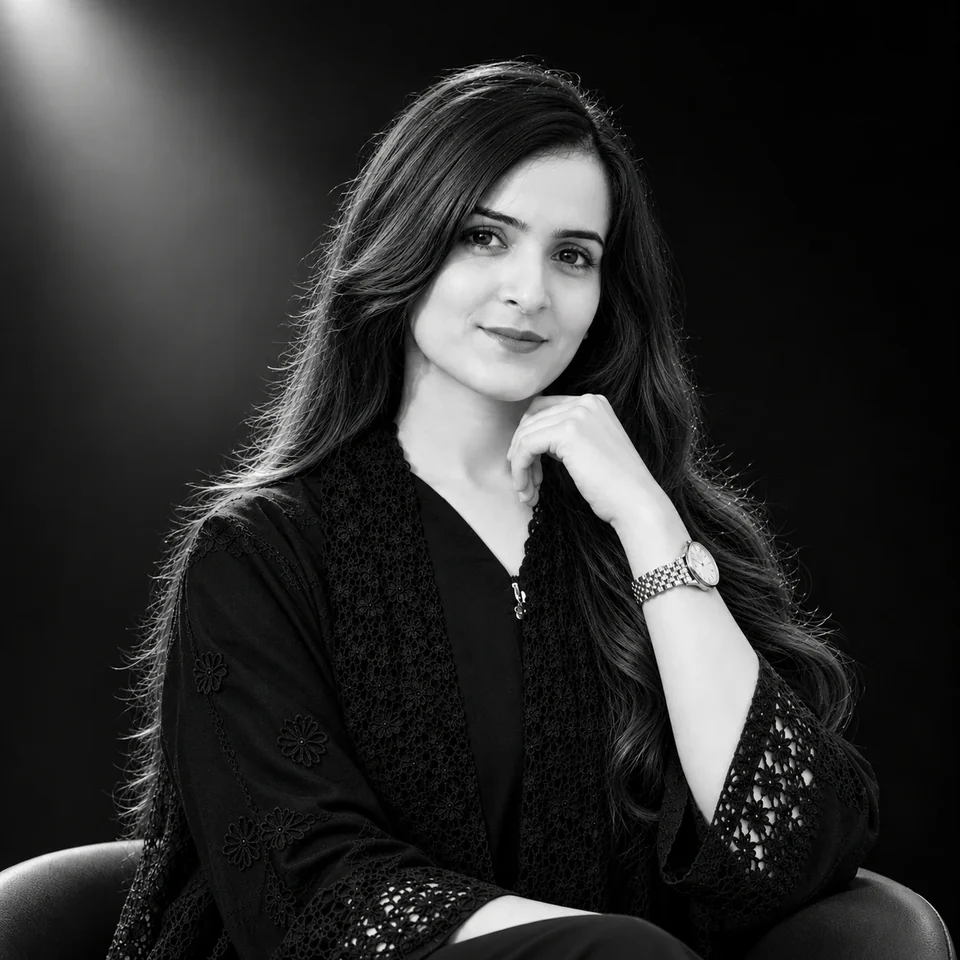
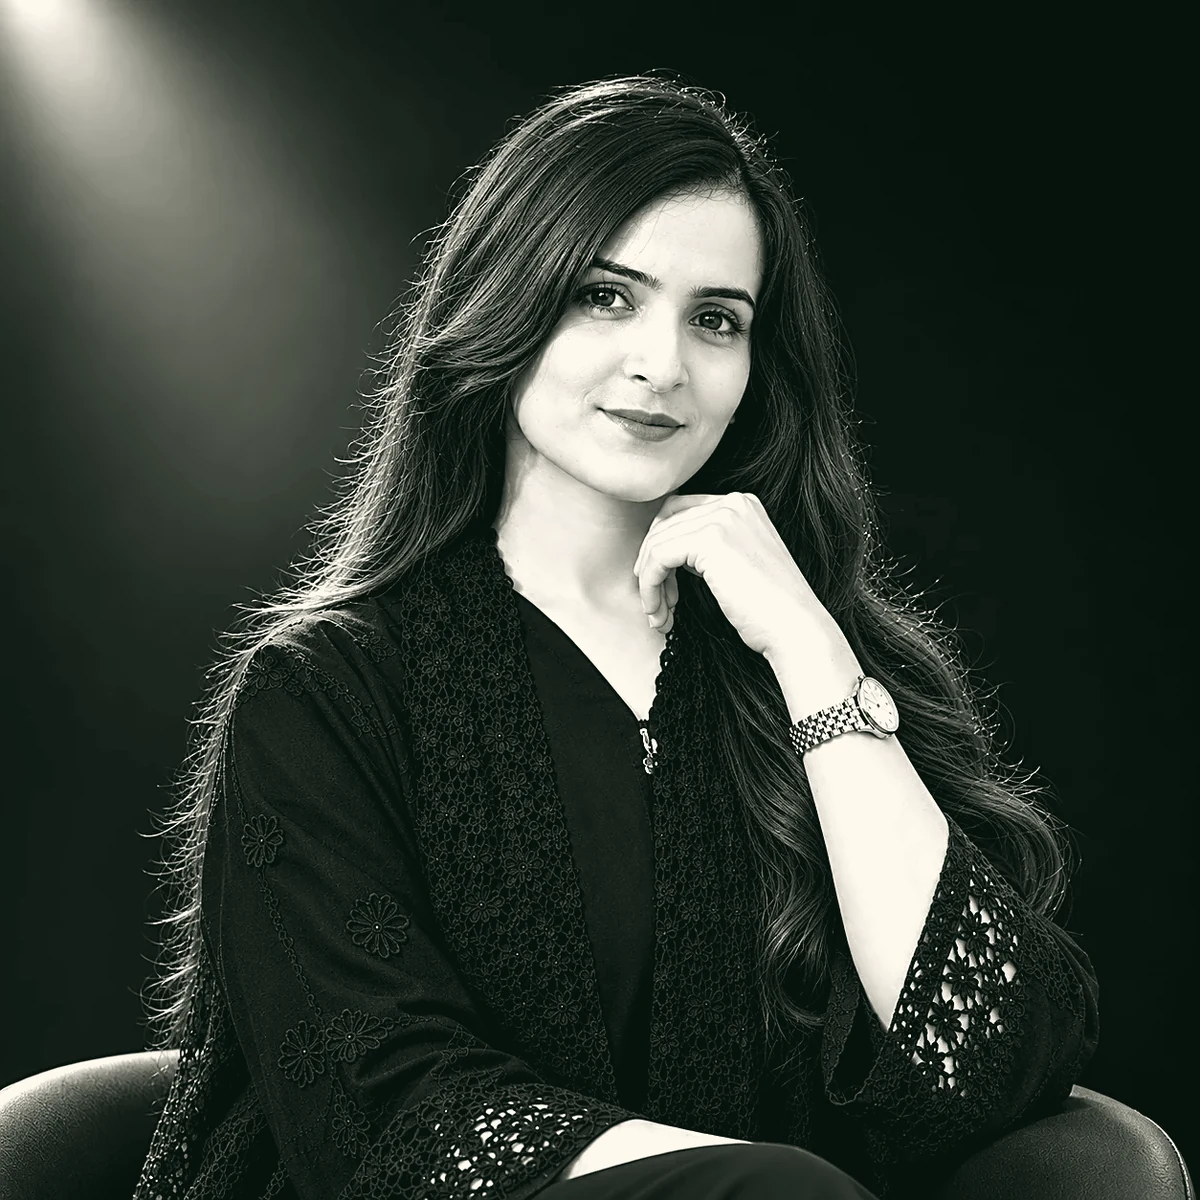
About: founder framing, livelier portrait, fade in/out motion, genres
- Sehrish is presented as founder and operator: eyebrow, intro, a
  founder note, the name tag, page title and quote credit.
- Portrait re-processed: sharper detail and a duotone in the site's
  deep green and cream (1200 px). It zooms in on load with a light sweep,
  then drifts, turns and zooms out as the hero scrolls away, and tilts
  toward the cursor on desktop.
- Animations rebuilt: headings, paragraphs, journey stops, cards,
  ambitions, promises and buttons fade and rise in on arrival and fade
  out on leaving, in both directions. Scroll-driven values now have
  explicit start points so nothing jumps after the intro.
- Genres: two drifting rows of genre chips on the About page, and a
  forest genre strip under the formats strip on the home page.

diff --git a/about.html b/about.html
@@ -3,8 +3,8 @@
 <head>
 <meta charset="utf-8">
 <meta name="viewport" content="width=device-width, initial-scale=1, viewport-fit=cover">
-<title>About Sehrish K | Kodsinc Studio</title>
-<meta name="description" content="Meet Sehrish K of Kodsinc Studio. Editing, covers, formatting, publishing and author websites for indie, self-published and first-time authors.">
+<title>About Sehrish K, Founder | Kodsinc Studio</title>
+<meta name="description" content="Meet Sehrish K, founder of Kodsinc Studio. Editing, covers, formatting, publishing and author websites for indie, self-published and first-time authors.">
 <link rel="icon" href="favicon.ico" sizes="any">
 <link rel="icon" type="image/png" sizes="32x32" href="favicon-32.png">
 <link rel="apple-touch-icon" href="apple-touch-icon.png">
@@ -101,7 +101,14 @@ main{overflow-x:clip}
 .ab-photo .bg-leaf{position:absolute;inset:-12% -14% -6% -10%;z-index:-1}
 .ab-photo .bg-leaf svg{width:100%;height:100%;animation:sway 9s ease-in-out infinite;transform-origin:20% 90%}
 @keyframes sway{0%,100%{transform:rotate(-2deg)}50%{transform:rotate(2deg)}}
-.frame{position:relative;border:2px solid var(--forest);border-radius:22px;overflow:hidden;background:#0b0b0b;box-shadow:12px 12px 0 var(--forest)}
+.ab-photo{perspective:1200px}
+.tilt{transform-style:preserve-3d;will-change:transform}
+.frame{position:relative;border:2px solid var(--forest);border-radius:22px;overflow:hidden;background:#06120c;box-shadow:12px 12px 0 var(--forest);will-change:transform}
+.frame img{will-change:transform}
+/* A soft band of light that sweeps across the portrait once it is revealed */
+.shine{position:absolute;inset:-20% -60%;background:linear-gradient(105deg,transparent 42%,rgba(255,249,238,.16) 50%,transparent 58%);transform:translateX(-70%);pointer-events:none}
+.founder-note{display:grid;gap:2px;max-width:52ch;padding:12px 16px;border-left:4px solid var(--leaf);background:var(--paper);border-radius:0 10px 10px 0;font-size:15.5px;color:var(--muted)}
+.founder-note b{font:700 12px var(--mono);letter-spacing:.12em;text-transform:uppercase;color:var(--moss)}
 .frame img{width:100%;height:auto;aspect-ratio:1}
 .ab-photo figcaption{position:absolute;left:-18px;bottom:28px;display:grid;gap:2px;background:var(--paper);border:2px solid var(--forest);border-radius:12px;
   padding:12px 16px;box-shadow:5px 5px 0 var(--forest)}
@@ -147,6 +154,19 @@ main{overflow-x:clip}
 .who span{font-size:14.5px;line-height:1.5;opacity:.9;margin-top:auto}
 @media (max-width:1050px){.who{grid-template-columns:repeat(3,minmax(0,1fr))}}
 @media (max-width:640px){.who{grid-template-columns:repeat(2,minmax(0,1fr));gap:14px}.who li{min-height:200px;padding:16px 14px}.who b{font-size:18px}}
+
+/* Genres: two rows drifting in opposite directions */
+.genres{margin-top:56px;display:grid;gap:14px}
+.g-title{font:700 15px var(--display);color:var(--forest)}
+.g-row{overflow:hidden;-webkit-mask:linear-gradient(90deg,transparent,#000 6%,#000 94%,transparent);mask:linear-gradient(90deg,transparent,#000 6%,#000 94%,transparent)}
+.g-track{display:flex;width:max-content}
+.g-track ul{list-style:none;margin:0;padding:0 6px 0 0;display:flex;gap:10px}
+.g-track li{display:inline-flex;align-items:center;gap:8px;white-space:nowrap;padding:9px 16px;border-radius:999px;border:2px solid var(--forest);
+  background:var(--cream);font:600 15px var(--display);color:var(--forest)}
+.g-track li::before{content:"";width:10px;height:10px;border-radius:0 70% 0 70%;background:var(--leaf)}
+.g-track li:nth-child(3n+2){background:var(--leaf-pale)}
+.g-track li:nth-child(3n){background:var(--forest);color:var(--cream)}
+.g-track li:nth-child(3n)::before{background:var(--gold-2)}
 
 /* ---------- Vision ---------- */
 .ab-vision{background:var(--forest);color:var(--cream);overflow:hidden}
@@ -247,9 +267,10 @@ main{overflow-x:clip}
 <!-- HERO -->
 <section class="wrap ab-hero" aria-labelledby="abTitle">
   <div class="ab-copy">
-    <p class="eyebrow">About Kodsinc Studio</p>
+    <p class="eyebrow">Meet the founder</p>
     <h1 id="abTitle" aria-label="Hey, I'm Sehrish."><span class="line" aria-hidden="true"><span>Hey, I'm</span></span><span class="line accent" aria-hidden="true"><span>Sehrish.</span></span></h1>
-    <p class="lede">I help indie authors, self-published writers and first-time authors turn their manuscripts into books they're genuinely proud to share with the world.</p>
+    <p class="lede">I'm the founder of Kodsinc Studio and the person running it behind the scenes. I help indie authors, self-published writers and first-time authors turn their manuscripts into books they're genuinely proud to share with the world.</p>
+    <p class="founder-note"><b>Founder &amp; operator</b> I run the studio day to day and stay close to every project, from the first read of your manuscript to launch day.</p>
     <div class="actions">
       <a class="btn btn-sprout" href="index.html#brief">
         <svg class="sprout" viewBox="0 0 30 30" aria-hidden="true"><path d="M4 28C4 14 12 4 28 2c0 16-10 26-24 26z" fill="#7aad26" stroke="#073b22" stroke-width="2"/><path d="M5 27C11 19 17 12 24 7" stroke="#073b22" stroke-width="2" fill="none"/></svg>
@@ -260,8 +281,8 @@ main{overflow-x:clip}
   </div>
   <figure class="ab-photo">
     <div class="bg-leaf" aria-hidden="true"><svg viewBox="0 0 400 400"><path d="M30 370C30 170 170 30 370 30c0 200-140 340-340 340z" fill="#e4ecc9"/><path d="M52 348C134 258 222 168 330 72" stroke="#d5e2b3" stroke-width="10" fill="none" stroke-linecap="round"/></svg></div>
-    <div class="frame"><img src="assets/about/sehrish.webp" alt="Portrait of Sehrish K, seated, smiling, in black and white" width="960" height="960"></div>
-    <figcaption><b>Sehrish K</b><span>Kodsinc Studio</span></figcaption>
+    <div class="tilt"><div class="frame"><img src="assets/about/sehrish.webp?v=2" alt="Portrait of Sehrish K, founder of Kodsinc Studio, seated and smiling" width="1200" height="1200"><span class="shine" aria-hidden="true"></span></div></div>
+    <figcaption><b>Sehrish K</b><span>Founder &amp; operator, Kodsinc Studio</span></figcaption>
     <svg class="tag-leaf" viewBox="0 0 24 24" aria-hidden="true"><use href="#i-leaf"/></svg>
   </figure>
 </section>
@@ -300,6 +321,12 @@ main{overflow-x:clip}
       <li><svg viewBox="0 0 24 24" fill="none" stroke="currentColor" stroke-width="2" stroke-linecap="round" aria-hidden="true"><path d="M12 3l9 5-9 5-9-5z"/><path d="M3 13l9 5 9-5"/></svg><b>Indie authors</b><span>Publishing on your own terms, with the polish of a big house.</span></li>
       <li><svg viewBox="0 0 24 24" fill="none" stroke="currentColor" stroke-width="2" stroke-linecap="round" stroke-linejoin="round" aria-hidden="true"><path d="M12 21V11"/><path d="M12 11C12 6 8 3 4 3c0 5 3 8 8 8zM12 13c0-4 3-7 8-7 0 5-3 7-8 7z"/></svg><b>First-time writers</b><span>Your first book, guided step by step.</span></li>
     </ul>
+    <div class="genres">
+      <p class="g-title">And the genres we work across</p>
+      <ul class="sr-only"><li>Children's picture books</li><li>Early readers</li><li>Middle grade</li><li>Young adult</li><li>Fantasy</li><li>Science fiction</li><li>Romance</li><li>Literary fiction</li><li>Historical fiction</li><li>Mystery</li><li>Thriller</li><li>Crime &amp; true crime</li><li>Horror</li><li>Memoir &amp; biography</li><li>Poetry</li><li>Self-help</li><li>Business &amp; leadership</li><li>Faith &amp; inspirational</li><li>Health &amp; wellness</li><li>Cookbooks</li></ul>
+      <div class="g-row" aria-hidden="true"><div class="g-track"><ul><li>Children's picture books</li><li>Early readers</li><li>Middle grade</li><li>Young adult</li><li>Fantasy</li><li>Science fiction</li><li>Romance</li><li>Literary fiction</li><li>Historical fiction</li></ul><ul><li>Children's picture books</li><li>Early readers</li><li>Middle grade</li><li>Young adult</li><li>Fantasy</li><li>Science fiction</li><li>Romance</li><li>Literary fiction</li><li>Historical fiction</li></ul></div></div>
+      <div class="g-row rev" aria-hidden="true"><div class="g-track"><ul><li>Mystery</li><li>Thriller</li><li>Crime &amp; true crime</li><li>Horror</li><li>Memoir &amp; biography</li><li>Poetry</li><li>Self-help</li><li>Business &amp; leadership</li><li>Faith &amp; inspirational</li><li>Health &amp; wellness</li><li>Cookbooks</li></ul><ul><li>Mystery</li><li>Thriller</li><li>Crime &amp; true crime</li><li>Horror</li><li>Memoir &amp; biography</li><li>Poetry</li><li>Self-help</li><li>Business &amp; leadership</li><li>Faith &amp; inspirational</li><li>Health &amp; wellness</li><li>Cookbooks</li></ul></div></div>
+    </div>
   </div>
 </section>
 
@@ -345,7 +372,7 @@ main{overflow-x:clip}
 <section class="ab-quote" aria-label="Our belief">
   <div class="wrap">
     <blockquote id="bigQuote">Your story deserves to be seen, read, and remembered.</blockquote>
-    <cite>Sehrish K, Kodsinc Studio</cite>
+    <cite>Sehrish K, founder of Kodsinc Studio</cite>
   </div>
 </section>
 
@@ -410,18 +437,24 @@ main{overflow-x:clip}
   }
   const INK = '<svg class="ink" viewBox="0 0 100 12" preserveAspectRatio="none" aria-hidden="true"><path pathLength="100" d="M2 8C28 3 62 2 98 7"/></svg>';
 
+  // Reversible reveal: fades and rises in as it arrives, fades out as it leaves (both scroll directions)
+  const fade = (targets, trigger, o = {}) => gsap.fromTo(targets,
+    Object.assign({autoAlpha:0, y:o.y ?? 40}, o.from || {}),
+    Object.assign({autoAlpha:1, y:0, duration:o.d ?? .8, stagger:o.stagger ?? 0, ease:'power3.out',
+      scrollTrigger:{trigger, start:o.start ?? 'top 86%', end:o.end ?? 'bottom 8%', toggleActions:'play reverse play reverse'}}, o.to || {}));
+
   // Headings flip up word by word; one key word gets a gold editor's underline
   $$('[data-split]').forEach(h => {
     const words = h.textContent.trim().split(/\s+/);
     h.setAttribute('aria-label', words.join(' '));
     h.innerHTML = words.map(w => `<span class="w" aria-hidden="true"><span class="wi">${w}</span></span>`).join(' ');
-    const tl = gsap.timeline({scrollTrigger:{trigger:h, start:'top 86%', once:true}})
-      .from($$('.wi', h), {rotationX:-100, y:16, autoAlpha:0, duration:.9, stagger:.05, ease:'back.out(1.5)'});
+    const tl = gsap.timeline({scrollTrigger:{trigger:h, start:'top 86%', end:'bottom 6%', toggleActions:'play reverse play reverse'}})
+      .fromTo($$('.wi', h), {rotationX:-100, y:16, autoAlpha:0}, {rotationX:0, y:0, autoAlpha:1, duration:.8, stagger:.045, ease:'back.out(1.5)'});
     const marked = $$('.w', h).find(w => w.textContent === h.dataset.mark);
-    if (marked) { marked.insertAdjacentHTML('afterbegin', INK); tl.fromTo(marked, {'--ink-off':100}, {'--ink-off':0, duration:.7, ease:'power2.inOut'}, '-=.2'); }
+    if (marked) { marked.insertAdjacentHTML('afterbegin', INK); tl.fromTo(marked, {'--ink-off':100}, {'--ink-off':0, duration:.6, ease:'power2.inOut'}, '-=.25'); }
   });
 
-  // Labels: the leaf sprouts, then the label types itself out
+  // Labels: the leaf sprouts, then the label types itself out (once)
   $$('.eyebrow').forEach(el => {
     const text = el.textContent.trim();
     el.innerHTML = `<span class="sr-only">${text}</span><span aria-hidden="true"></span><span class="caret" aria-hidden="true"></span>`;
@@ -434,59 +467,91 @@ main{overflow-x:clip}
     else ScrollTrigger.create({trigger:el, start:'top 90%', once:true, onEnter:() => tl.play()});
   });
 
-  // Paragraphs that fill in word by word as you read
+  // Paragraphs that fill in word by word as you read, and soften again as they leave the top
   $$('[data-ink]').forEach(el => {
     el.innerHTML = el.textContent.trim().split(/\s+/).map(w => `<span class="inkw">${w}</span>`).join(' ');
     gsap.fromTo($$('.inkw', el), {opacity:.15}, {opacity:1, stagger:.1, ease:'none', scrollTrigger:{trigger:el, start:'top 85%', end:'bottom 55%', scrub:true}});
   });
+  $$('.lede:not([data-ink]), .founder-note').forEach(el => { if (!el.closest('.ab-hero')) fade(el, el, {y:24}); });
 
-  // ---------- Hero: name rises, the portrait is revealed from the bottom, the caption and leaf pop in ----------
+  // ---------- Hero intro ----------
   gsap.timeline({defaults:{ease:'power4.out'}})
     .from('.ab-hero h1 .line>span', {yPercent:110, duration:1.05, stagger:.12})
     .from('.ab-photo .bg-leaf svg', {scale:0, rotation:-30, duration:1.2, ease:'back.out(1.3)'}, .05)
     .fromTo('.frame', {clipPath:'inset(100% 0 0 0 round 22px)'}, {clipPath:'inset(0% 0 0 0 round 22px)', duration:1.2, ease:'power3.inOut'}, .15)
-    .from('.frame img', {scale:1.18, duration:1.6, ease:'power3.out'}, .15)
+    .fromTo('.frame img', {scale:1.25}, {scale:1.08, duration:1.6, ease:'power3.out'}, .15)
+    .to('.shine', {x:'70%', duration:1.4, ease:'power2.inOut'}, 1.1)
     .from('.ab-photo figcaption', {x:-30, autoAlpha:0, duration:.7, ease:'back.out(1.7)'}, .95)
     .from('.tag-leaf', {scale:0, rotation:-90, duration:.8, ease:'back.out(2.2)'}, 1.05)
-    .from('.ab-hero .lede, .ab-hero .actions', {y:24, autoAlpha:0, duration:.8, stagger:.1}, .45);
-  gsap.to('.frame img', {yPercent:-6, ease:'none', scrollTrigger:{trigger:'.ab-hero', start:'top top', end:'bottom top', scrub:true}});
+    .from('.ab-hero .lede, .ab-hero .founder-note, .ab-hero .actions', {y:24, autoAlpha:0, duration:.8, stagger:.1}, .45);
+
+  // ---------- Portrait on scroll: zooms out, drifts up and turns as the hero leaves; text fades out ----------
+  gsap.timeline({scrollTrigger:{trigger:'.ab-hero', start:'top top', end:'bottom top', scrub:.8}})
+    .fromTo('.frame', {y:0, rotation:0}, {y:-70, rotation:-4, ease:'none', immediateRender:false}, 0)
+    .fromTo('.frame img', {scale:1.08, yPercent:0}, {scale:1, yPercent:-4, ease:'none', immediateRender:false}, 0)
+    .fromTo('.ab-photo .bg-leaf', {rotation:0, scale:1}, {rotation:24, scale:1.15, ease:'none', immediateRender:false}, 0)
+    .fromTo('.tag-leaf', {rotation:0, y:0}, {rotation:200, y:-40, ease:'none', immediateRender:false}, 0)
+    .fromTo('.ab-photo figcaption', {x:0, y:0}, {x:-24, y:-30, ease:'none', immediateRender:false}, 0)
+    .fromTo('.ab-copy', {autoAlpha:1, y:0}, {autoAlpha:0, y:-50, ease:'none', immediateRender:false}, .35);
+
+  // ---------- Portrait follows the cursor a little (desktop only) ----------
+  const photo = $('.ab-photo');
+  if (matchMedia('(pointer: fine)').matches) {
+    const rx = gsap.quickTo('.tilt', 'rotationX', {duration:.6, ease:'power3'}), ry = gsap.quickTo('.tilt', 'rotationY', {duration:.6, ease:'power3'});
+    photo.addEventListener('pointermove', e => {
+      const r = photo.getBoundingClientRect();
+      ry(((e.clientX - r.left) / r.width - .5) * 14); rx(-((e.clientY - r.top) / r.height - .5) * 14);
+    });
+    photo.addEventListener('pointerleave', () => { rx(0); ry(0); });
+  }
 
   // ---------- Journey: a vine grows along the path and each stop lights up as it reaches it ----------
   const journey = $('.journey'), stops = $$('.journey li');
   gsap.fromTo(journey, {'--p':0}, {'--p':1, ease:'none', scrollTrigger:{trigger:journey, start:'top 78%', end:'bottom 45%', scrub:.8,
     onUpdate:s => stops.forEach((li, i) => li.classList.toggle('on', s.progress >= i / (stops.length - 1) - .02))}});
-  gsap.from(stops, {y:30, autoAlpha:0, stagger:.08, duration:.6, ease:'power3.out', scrollTrigger:{trigger:journey, start:'top 85%', once:true}});
+  fade(stops, journey, {y:30, stagger:.07, d:.6, end:'bottom 5%'});
 
-  // ---------- Who: cards flip in like books being pulled off a shelf ----------
-  gsap.from('.who li', {rotationY:-70, x:60, autoAlpha:0, transformOrigin:'0% 50%', stagger:.1, duration:.9, ease:'power3.out',
-    scrollTrigger:{trigger:'.who', start:'top 85%', once:true}});
+  // ---------- Who: cards swing in like books pulled off a shelf, and back out ----------
+  fade('.who li', '.who', {y:40, stagger:.08, from:{rotationY:-50, transformOrigin:'0% 50%'}, to:{rotationY:0}});
 
-  // ---------- Vision: ambitions rise, their icons spin in ----------
-  gsap.from('.amb li', {y:60, autoAlpha:0, stagger:.12, duration:.9, ease:'power3.out', scrollTrigger:{trigger:'.amb', start:'top 85%', once:true}});
-  gsap.from('.amb .ic', {scale:0, rotation:-120, stagger:.12, duration:.8, ease:'back.out(2)', delay:.3, scrollTrigger:{trigger:'.amb', start:'top 85%', once:true}});
+  // ---------- Genres: rows drift in opposite directions, faster while scrolling, paused off screen ----------
+  const g1 = gsap.to('.g-row:not(.rev) .g-track', {xPercent:-50, ease:'none', duration:38, repeat:-1, paused:true});
+  const g2 = gsap.fromTo('.g-row.rev .g-track', {xPercent:-50}, {xPercent:0, ease:'none', duration:44, repeat:-1, paused:true});
+  ScrollTrigger.create({trigger:'.genres', start:'top bottom', end:'bottom top',
+    onToggle:st => [g1, g2].forEach(t => st.isActive ? t.play() : t.pause()),
+    onUpdate:st => { const v = 1 + Math.min(Math.abs(st.getVelocity()) / 300, 4); gsap.to([g1, g2], {timeScale:v, duration:.2, overwrite:true}); gsap.to([g1, g2], {timeScale:1, duration:1, delay:.2}); }});
+  fade('.genres', '.genres', {y:30});
 
-  // ---------- Promises: slide in, then the tick draws itself ----------
-  $$('.promises li').forEach((li, i) => {
-    gsap.timeline({scrollTrigger:{trigger:li, start:'top 88%', once:true}})
-      .from(li, {x:50, autoAlpha:0, duration:.7, ease:'power3.out'})
-      .from($('.chk', li), {scale:0, rotation:-90, duration:.6, ease:'back.out(2.4)'}, '-=.35');
+  // ---------- Vision: ambitions rise in and out; icons spin in ----------
+  fade('.amb li', '.amb', {y:60, stagger:.12, d:.9});
+  gsap.fromTo('.amb .ic', {scale:0, rotation:-120}, {scale:1, rotation:0, stagger:.12, duration:.8, ease:'back.out(2)', delay:.25,
+    scrollTrigger:{trigger:'.amb', start:'top 86%', end:'bottom 8%', toggleActions:'play reverse play reverse'}});
+
+  // ---------- Promises: each slides in, its tick pops; they fade as they leave ----------
+  $$('.promises li').forEach(li => {
+    gsap.timeline({scrollTrigger:{trigger:li, start:'top 88%', end:'bottom 6%', toggleActions:'play reverse play reverse'}})
+      .fromTo(li, {x:50, autoAlpha:0}, {x:0, autoAlpha:1, duration:.7, ease:'power3.out'})
+      .fromTo($('.chk', li), {scale:0, rotation:-90}, {scale:1, rotation:0, duration:.55, ease:'back.out(2.4)'}, '-=.35');
   });
-  gsap.from('.beyond', {y:30, autoAlpha:0, duration:.8, ease:'power3.out', scrollTrigger:{trigger:'.beyond', start:'top 88%', once:true}});
+  fade('.beyond', '.beyond', {y:30});
 
-  // ---------- Big quote: each word darkens as you scroll through it, then "remembered" is underlined ----------
+  // ---------- Big quote: words darken in, "remembered" is underlined, then the quote softens as it leaves ----------
   const q = $('#bigQuote'), qText = q.textContent.trim();
   q.setAttribute('aria-label', qText);
   q.innerHTML = qText.split(/\s+/).map(w => `<span class="qw" aria-hidden="true">${w}</span>`).join(' ');
   const qWords = $$('.qw', q), last = qWords[qWords.length - 1];
   last.insertAdjacentHTML('beforeend', INK);
-  gsap.timeline({scrollTrigger:{trigger:'.ab-quote', start:'top 75%', end:'center 45%', scrub:.6}})
+  gsap.timeline({scrollTrigger:{trigger:'.ab-quote', start:'top 80%', end:'bottom 15%', scrub:.6}})
     .fromTo(qWords, {opacity:.12, y:18}, {opacity:1, y:0, stagger:.15, ease:'power1.out'})
-    .fromTo(last, {'--ink-off':100}, {'--ink-off':0, duration:.6});
+    .fromTo(last, {'--ink-off':100}, {'--ink-off':0, duration:.6})
+    .to({}, {duration:.8})
+    .to(q, {opacity:.25, y:-30, duration:.8, ease:'none'});
+  fade('.ab-quote cite', '.ab-quote', {y:16, start:'top 60%'});
 
   // ---------- Call to action ----------
-  gsap.from('.ab-cta .actions > *, .socials > *', {y:24, autoAlpha:0, stagger:.08, duration:.6, ease:'power3.out', scrollTrigger:{trigger:'.ab-cta .actions', start:'top 90%', once:true}});
+  fade('.ab-cta .actions > *, .socials > *', '.ab-cta .actions', {y:24, stagger:.08, d:.6, start:'top 92%', end:'bottom -40%'});
   gsap.fromTo('.cta-leaf', {rotation:-25, scale:.8}, {rotation:6, scale:1, ease:'none', scrollTrigger:{trigger:'.ab-cta', start:'top bottom', end:'bottom top', scrub:true}});
-  gsap.from('.foot nav a, .foot .end > *', {y:18, autoAlpha:0, stagger:.06, duration:.6, ease:'power3.out', scrollTrigger:{trigger:'.foot', start:'top 95%', once:true}});
+  gsap.from('.foot nav a, .foot .end > *', {y:18, autoAlpha:0, stagger:.06, duration:.6, ease:'power3.out', scrollTrigger:{trigger:'.foot', start:'top 98%', once:true}});
 
   addEventListener('load', () => ScrollTrigger.refresh());
 })();

diff --git a/index.html b/index.html
@@ -457,6 +457,10 @@ p{margin:0}
 .marquee-track ul{display:flex;gap:0;list-style:none;margin:0;padding:0}
 .marquee-track li{font:800 clamp(20px,2.6vw,30px) var(--display);color:var(--forest-deep);white-space:nowrap;display:flex;align-items:center}
 .marquee-track li::after{content:"";width:14px;height:14px;margin-inline:26px;background:var(--forest);border-radius:0 70% 0 70%}
+/* Genre strip: forest band under the formats strip, running the other way */
+.marquee.genre{background:var(--forest);border-top:none;padding-block:12px}
+.marquee.genre .marquee-track li{font:600 clamp(16px,1.8vw,21px) var(--display);color:var(--cream)}
+.marquee.genre .marquee-track li::after{width:10px;height:10px;margin-inline:20px;background:var(--gold-2)}
 
 /* ---------- Author marketing ---------- */
 /* The side sites on the ring can reach past the window edge; clip sideways so the page never scrolls horizontally */
@@ -1088,6 +1092,12 @@ fieldset{border:none;padding:0;margin:0;min-width:0}
     <ul><li>Paperback</li><li>Hardcover</li><li>Ebook</li><li>EPUB</li><li>Kindle</li><li>Print-ready PDF</li><li>Children's book illustration</li><li>6 &times; 9 in</li><li>5.5 &times; 8.5 in</li><li>Author websites</li><li>Automated blogs</li></ul>
   </div>
 </div>
+<div class="marquee genre" aria-label="Genres we work across: Children's picture books, Middle grade, Young adult, Fantasy, Science fiction, Romance, Literary fiction, Historical fiction, Mystery, Thriller, Crime and true crime, Horror, Memoir, Poetry, Self-help, Business, Faith and inspirational, Cookbooks">
+  <div class="marquee-track" aria-hidden="true">
+    <ul><li>Children's picture books</li><li>Middle grade</li><li>Young adult</li><li>Fantasy</li><li>Science fiction</li><li>Romance</li><li>Literary fiction</li><li>Historical fiction</li><li>Mystery</li><li>Thriller</li><li>Crime &amp; true crime</li><li>Horror</li><li>Memoir</li><li>Poetry</li><li>Self-help</li><li>Business</li><li>Faith &amp; inspirational</li><li>Cookbooks</li></ul>
+    <ul><li>Children's picture books</li><li>Middle grade</li><li>Young adult</li><li>Fantasy</li><li>Science fiction</li><li>Romance</li><li>Literary fiction</li><li>Historical fiction</li><li>Mystery</li><li>Thriller</li><li>Crime &amp; true crime</li><li>Horror</li><li>Memoir</li><li>Poetry</li><li>Self-help</li><li>Business</li><li>Faith &amp; inspirational</li><li>Cookbooks</li></ul>
+  </div>
+</div>
 
 <!-- AUTHOR MARKETING -->
 <section class="section" id="marketing">
@@ -1547,13 +1557,15 @@ fieldset{border:none;padding:0;margin:0;min-width:0}
   });
 
   // ---------- Marquee speeds up and leans with scroll velocity ----------
-  const mq = gsap.to('.marquee-track', {xPercent:-50, ease:'none', duration:30, repeat:-1});
+  const mq = gsap.to('.marquee:not(.genre) .marquee-track', {xPercent:-50, ease:'none', duration:30, repeat:-1});
+  // The genre strip runs the opposite way and reacts to scroll speed with the formats strip
+  const mqG = gsap.fromTo('.marquee.genre .marquee-track', {xPercent:-50}, {xPercent:0, ease:'none', duration:46, repeat:-1});
   const skew = gsap.quickTo('.marquee-track li', 'skewX', {duration:.4, ease:'power3'});
   ScrollTrigger.create({trigger:'.marquee', start:'top bottom', end:'bottom top',
     onUpdate:s => {
       const v = s.getVelocity();
-      gsap.to(mq, {timeScale: s.direction * (1 + Math.min(Math.abs(v) / 250, 6)), duration:.25, overwrite:true});
-      gsap.to(mq, {timeScale: s.direction, duration:1.2, delay:.25});
+      gsap.to([mq, mqG], {timeScale: s.direction * (1 + Math.min(Math.abs(v) / 250, 6)), duration:.25, overwrite:true});
+      gsap.to([mq, mqG], {timeScale: s.direction, duration:1.2, delay:.25});
       skew(gsap.utils.clamp(-14, 14, -v / 120));
     },
     onLeave:() => skew(0), onLeaveBack:() => skew(0)});
